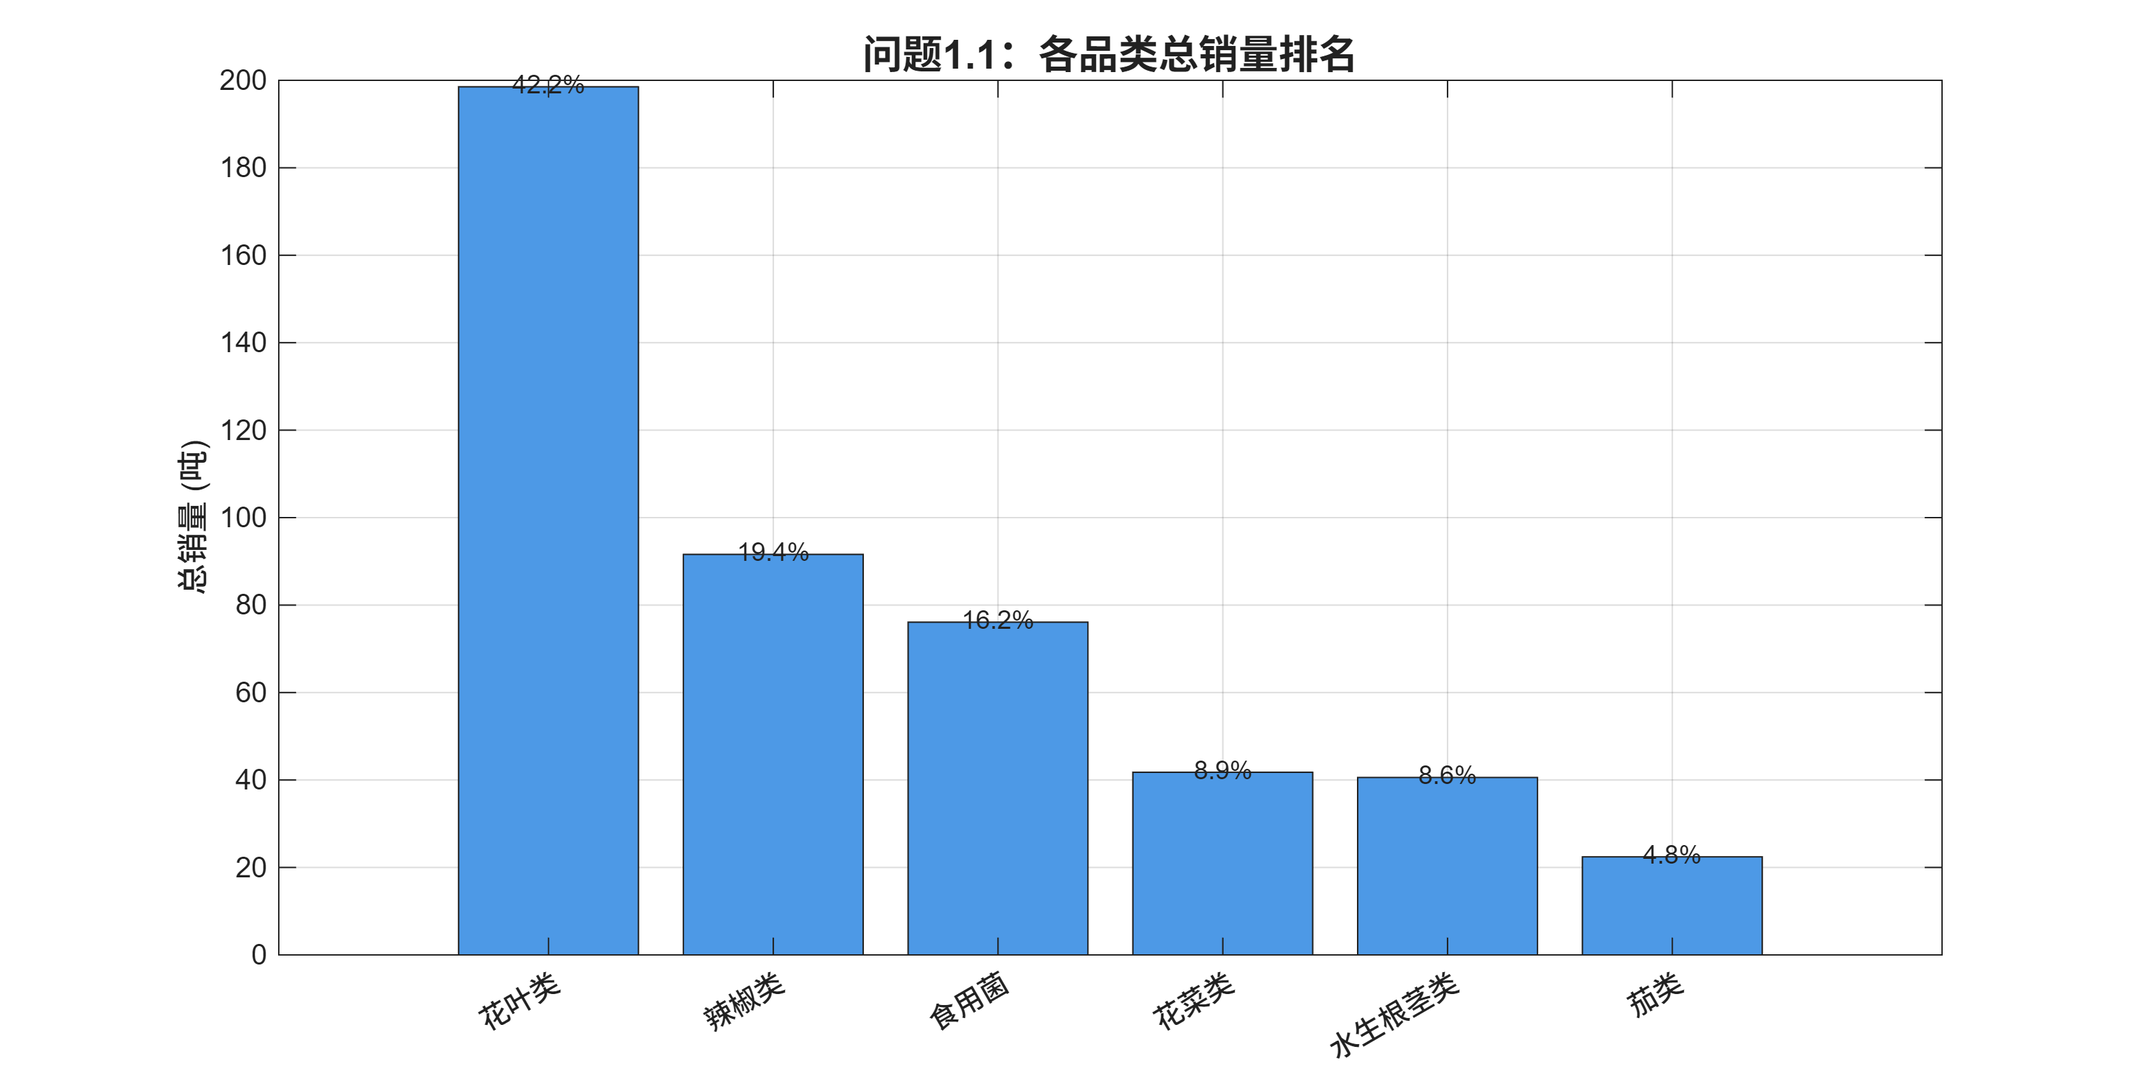
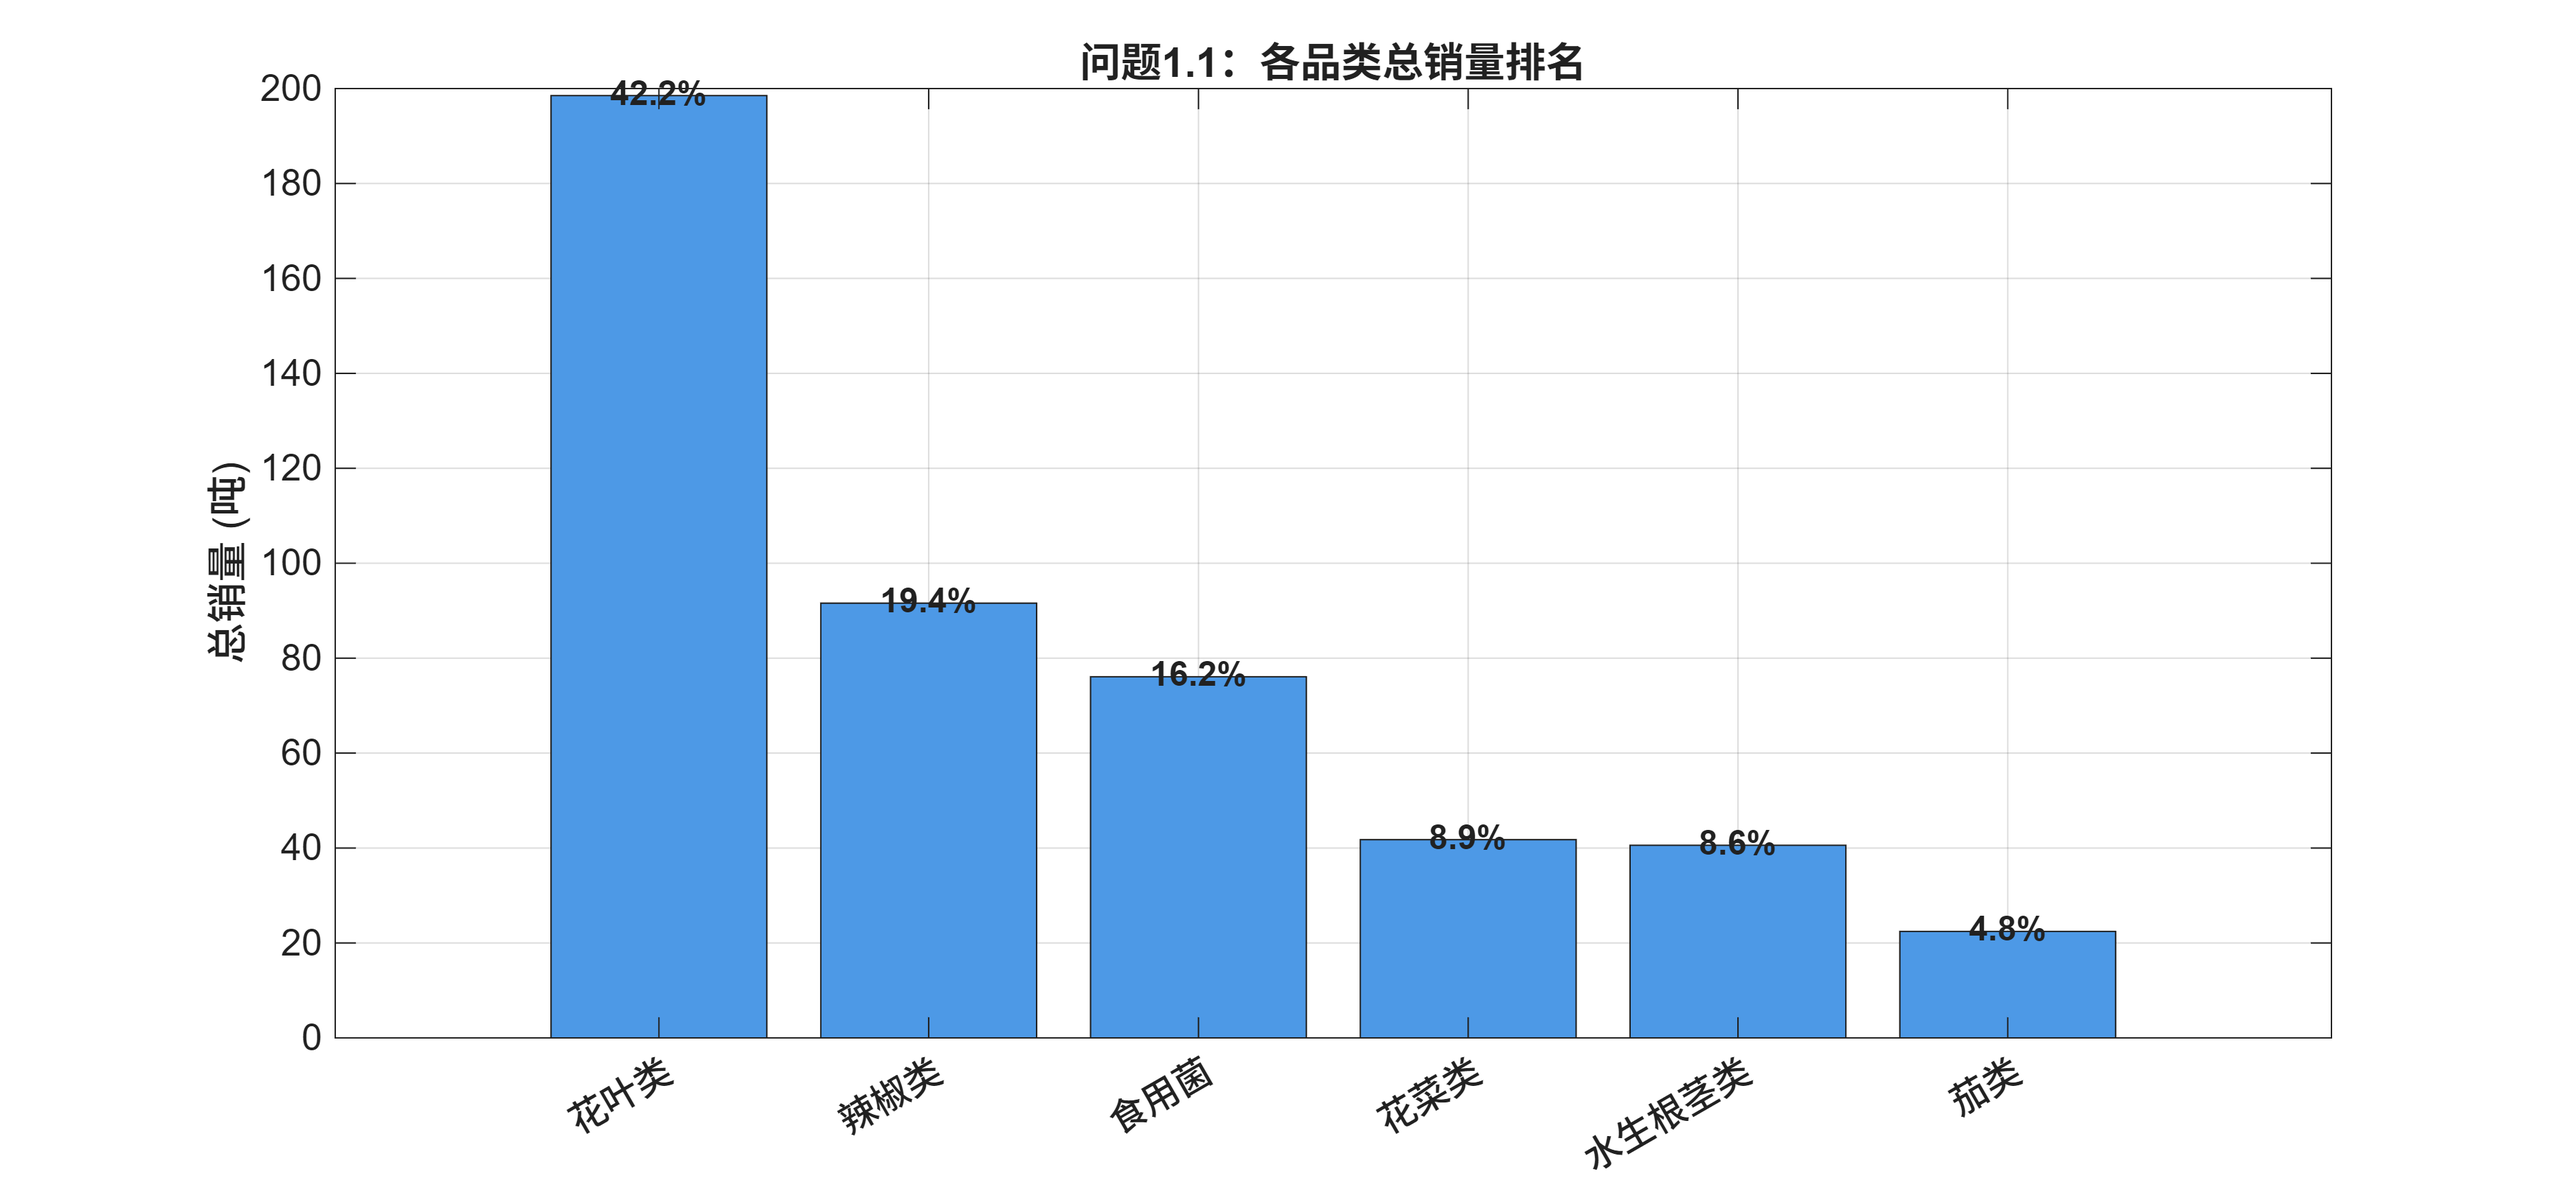
调大P1四张图的字体：坐标轴13pt、标题16pt、标注12pt、增大画布尺寸

diff --git a/培训作业3/code/solve_problem1.m b/培训作业3/code/solve_problem1.m
@@ -228,15 +228,17 @@ save(fullfile(result_dir, 'elasticity_results.mat'), 'elasticity_results');
 fprintf('\n====== 生成图表 ======\n');
 
 % 图1.1：品类总销量柱状图
-figure('Position', [100, 100, 1000, 500]);
+figure('Position', [100, 100, 1200, 550]);
 bar(cat_total_sorted / 1000, 'FaceColor', [0.3 0.6 0.9]);
 set(gca, 'XTickLabel', cat_names_sorted, 'XTickLabelRotation', 30);
-ylabel('总销量 (吨)'); title('问题1.1：各品类总销量排名', 'FontSize', 14, 'FontWeight', 'bold');
+ylabel('总销量 (吨)', 'FontSize', 14);
+title('问题1.1：各品类总销量排名', 'FontSize', 16, 'FontWeight', 'bold');
+set(gca, 'FontSize', 13);
 grid on;
 for i = 1:length(cat_total_sorted)
     text(i, cat_total_sorted(i)/1000 + 0.5, sprintf('%.1f%%', ...
         100*cat_total_sorted(i)/sum(cat_total)), ...
-        'HorizontalAlignment', 'center', 'FontSize', 9);
+        'HorizontalAlignment', 'center', 'FontSize', 12, 'FontWeight', 'bold');
 end
 print(gcf, fullfile(fig_dir, 'p1_cat_sales_300.png'), '-dpng', '-r300');
 close(gcf);
@@ -247,9 +249,11 @@ n_items = length(item_total_sorted);
 plot((1:n_items)/n_items*100, cumsum_pct, 'b-', 'LineWidth', 2);
 hold on;
 plot([0 100], [0 100], 'k--');
-xlabel('单品累计占比 (%)'); ylabel('销量累计占比 (%)');
-title('问题1.2：单品销量集中度曲线', 'FontSize', 14, 'FontWeight', 'bold');
-legend('实际分布', '完全均匀', 'Location', 'southeast');
+xlabel('单品累计占比 (%)', 'FontSize', 14);
+ylabel('销量累计占比 (%)', 'FontSize', 14);
+title('问题1.2：单品销量集中度曲线', 'FontSize', 16, 'FontWeight', 'bold');
+set(gca, 'FontSize', 13);
+legend('实际分布', '完全均匀', 'Location', 'southeast', 'FontSize', 12);
 grid on;
 print(gcf, fullfile(fig_dir, 'p1_concentration_300.png'), '-dpng', '-r300');
 close(gcf);
@@ -260,7 +264,8 @@ imagesc(R_cat); colormap(jet); colorbar; clim([-1, 1]);
 set(gca, 'XTick', 1:n_cats, 'XTickLabel', cat_list, 'XTickLabelRotation', 30);
 set(gca, 'YTick', 1:n_cats, 'YTickLabel', cat_list);
 axis square;
-title('问题1.4：品类间销量相关系数', 'FontSize', 14, 'FontWeight', 'bold');
+set(gca, 'FontSize', 13);
+title('问题1.4：品类间销量相关系数', 'FontSize', 16, 'FontWeight', 'bold');
 print(gcf, fullfile(fig_dir, 'p1_corr_heatmap_300.png'), '-dpng', '-r300');
 close(gcf);
 
@@ -270,8 +275,10 @@ months_dt = datetime(monthly_sales.year, monthly_sales.month, 1);
 [~, mo_sort] = sort(months_dt);
 plot(months_dt(mo_sort), monthly_sales.sum_daily_sales_kg(mo_sort)/1000, ...
     'b-o', 'LineWidth', 1.5);
-xlabel('月份'); ylabel('月总销量 (吨)');
-title('问题1.3：月度总销量趋势', 'FontSize', 14, 'FontWeight', 'bold');
+xlabel('月份', 'FontSize', 14);
+ylabel('月总销量 (吨)', 'FontSize', 14);
+title('问题1.3：月度总销量趋势', 'FontSize', 16, 'FontWeight', 'bold');
+set(gca, 'FontSize', 13);
 grid on;
 print(gcf, fullfile(fig_dir, 'p1_monthly_trend_300.png'), '-dpng', '-r300');
 close(gcf);
